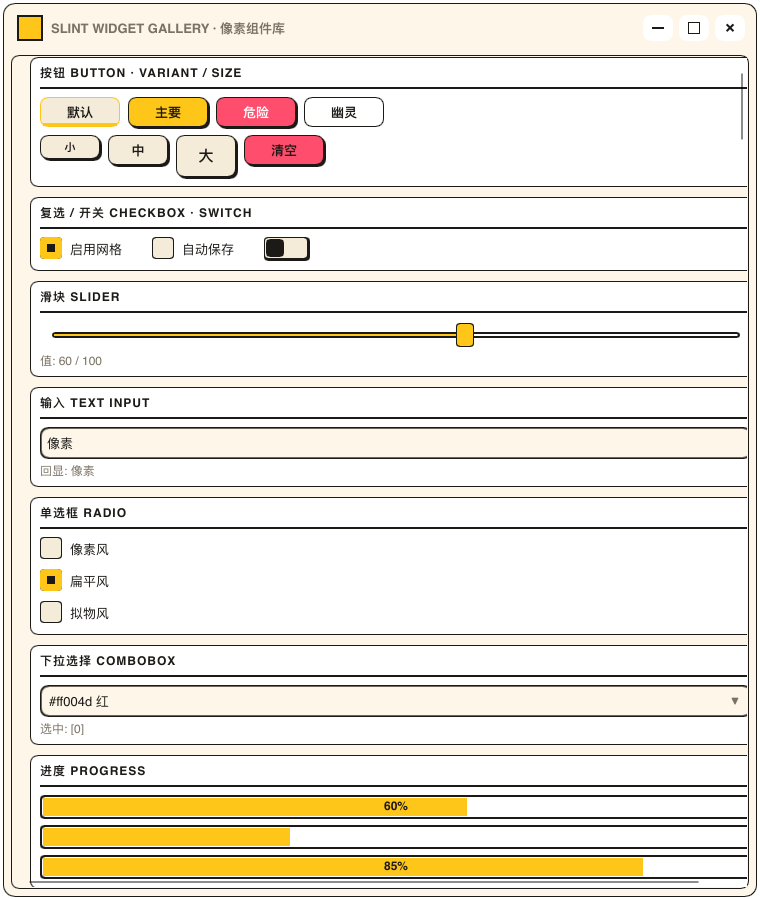
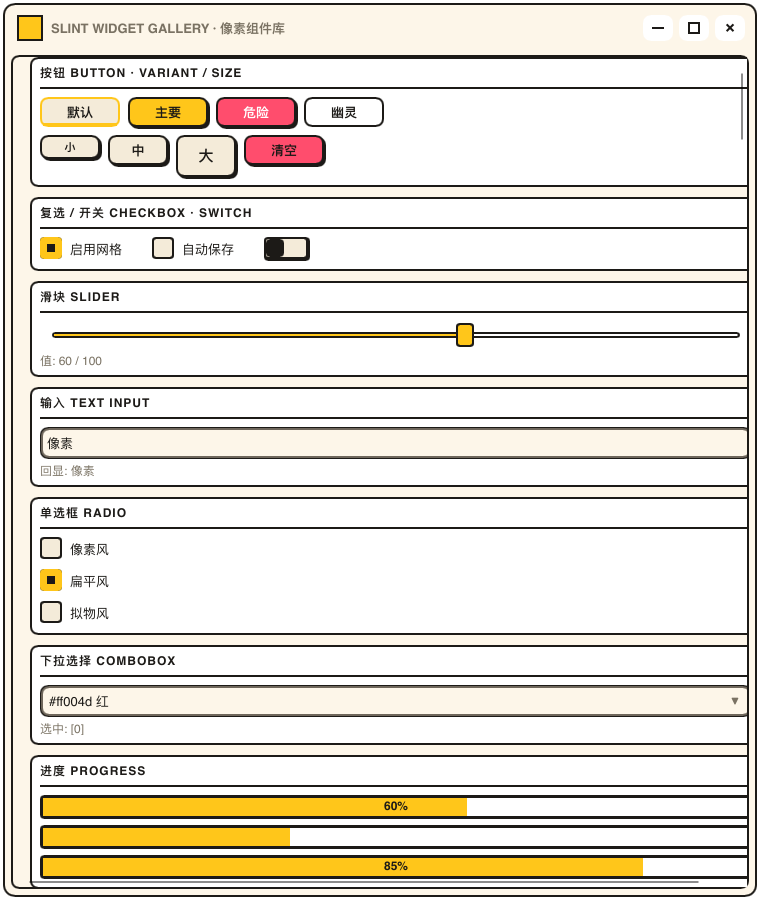
fix(theme): 柔彩预设描边回到 2px 一致基线（上一版误做成全 1px）
owner 反馈"怎么全改细了"：上一版把三档全设成 1px，属于把"统一档位"做成了"整体变细"，
丢掉了原来的分量感。修正为**保持库默认重量、只消除混档**：

- soft()：border-width / primary-border-width / border-thin 全部 2px
  （= 面板照旧 2px，primary 从 3px 降到 2px，输入类从 0.5px 提到 2px，全库同宽）；
- dark()：同样 2px×3；classic()：保持 2 / 3 / 0.5（= 现状，未变）；
- 主题编辑器的「细 1px / 中 2px / 粗 3px」档位保留，想要更细的用户自己一键切；
- README/COMPONENTS 的数值同步；docs/gallery-soft.png 重生成。

验证：fmt --check ✓、theme_radius 3 passed（含描边 token 守卫）、软渲染复测面板/输入框描边均为 2px。

diff --git a/docs/COMPONENTS.md b/docs/COMPONENTS.md
@@ -52,7 +52,7 @@ slint::global!::<slint_pixel::PixelTheme>(ui.window())
 | `accent` / `on-accent` | `#000000` / `#ffffff` | 强调、选中底色 / **accent 底之上的前景色**（选中行文字、勾选标记、开关滑块） |
 | `danger` / `success` / `warning` / `info` | 红 / 绿 / 琥珀 / 蓝 | 功能色；`PixelAlert` 按 `kind` 取用 |
 | `primary-face` / `primary-text` | `#ffffff` / `#000000` | `PixelButton variant="primary"` 的面与字 |
-| `border-width` / `primary-border-width` / `border-thin` | `2px` / `3px` / `0.5px` | 控件描边 / primary 按钮描边 / 输入类"发丝档"描边。三档都可用主题统一（预设里 soft=1px×3、dark=2px×3 就是全库同宽） |
+| `border-width` / `primary-border-width` / `border-thin` | `2px` / `3px` / `0.5px` | 控件描边 / primary 按钮描边 / 输入类"发丝档"描边。三档都可用主题统一（预设里 soft=2px×3、dark=2px×3 就是全库同宽） |
 | `radius` / `radius-sm` | `0px` / `radius / 2` | 容器圆角 / 小件圆角（默认直角像素风） |
 | `window-radius` | `0px` | 窗口自身圆角（默认直角窗口）；> 0 需配合 `PixelWindowBody` 与透明窗口，见下 |
 
@@ -136,7 +136,7 @@ export component App inherits Window {
 ```slint
 PixelTheme.border-width = 1px;
 PixelTheme.primary-border-width = 1px;
-PixelTheme.border-thin = 1px;   // 预设 PixelPresets.soft() 就是 1px×3，dark() 是 2px×3
+PixelTheme.border-thin = 2px;   // 预设 PixelPresets.soft() 与 dark() 都是 2px×3（全库同宽）
 ```
 
 `cargo test -p slint-pixel --test theme_radius` 里的 `every_border_width_is_theme_driven`
